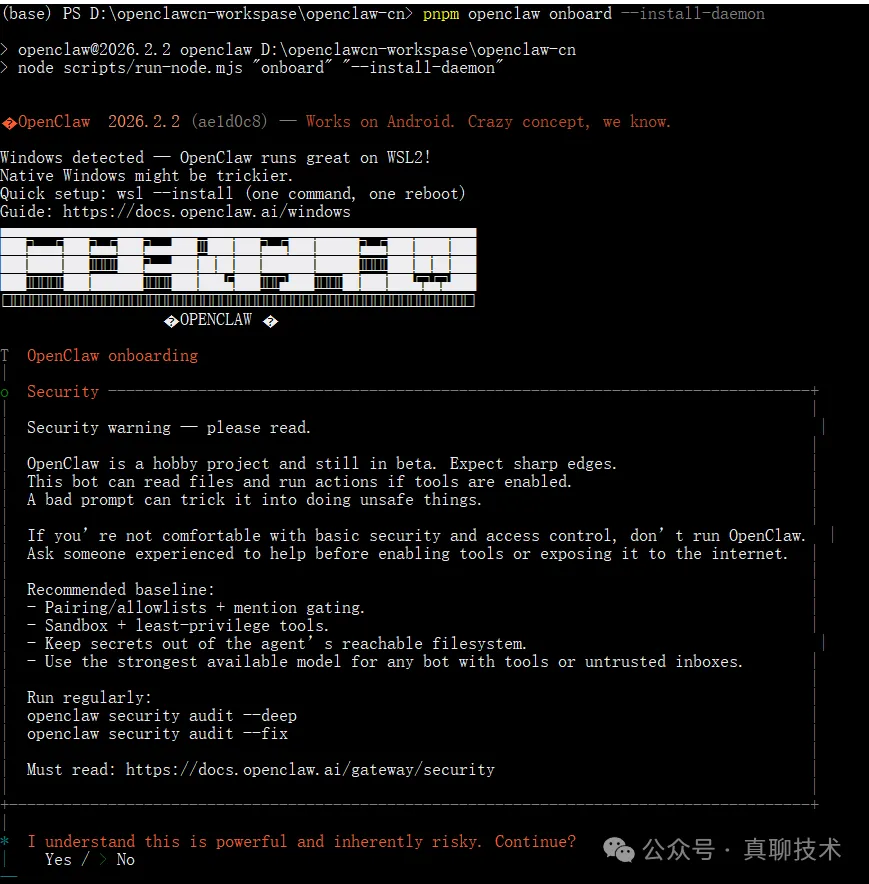
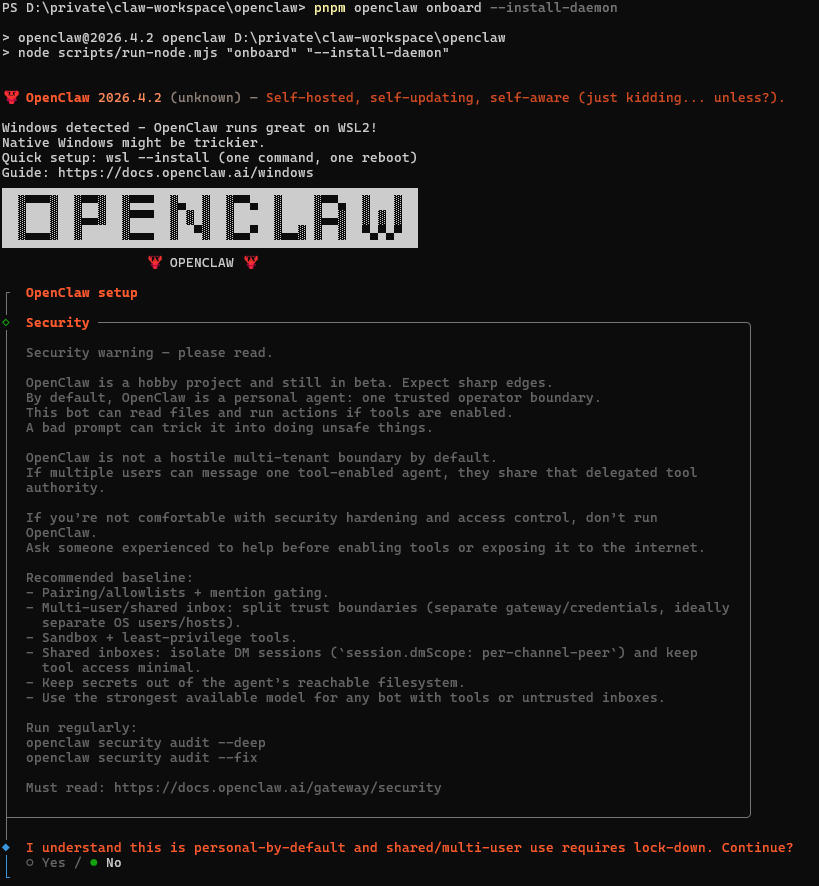
update更新

Changed region(s): [[0.0, 0.0, 1.0, 1.0], [0.8242, 0.6719, 0.8852, 0.7025]]

diff --git a/docs/practical/windows-native.md b/docs/practical/windows-native.md
@@ -112,25 +112,45 @@ pnpm openclaw onboard --install-daemon
 pnpm openclaw onboard --install-daemon
 ```
 
-![图片7](/practical/windows-native/7.jpg)
+![图片7](/practical/windows-native/7.png)
 
 再次看到这个页面，执行 **yes**。选择**快速开始**。
 
-![图片8](/practical/windows-native/8.jpg)
+![图片8](/practical/windows-native/8.png)
 
 轻松通过，果然还是图形的兼容问题，这里我们选择 **DeepSeek**。选择 **API key**，然后输入正确的 key 值。选择当前模型。
 
-![图片9](/practical/windows-native/9.jpg)
+![图片9](/practical/windows-native/9.png)
 
-通道这里选择**暂时跳过**，等 Gateway 启动后再配置。选择 **yes**，然后选择 **pnpm**。真实的 skill 安装时，可以暂时跳过，后续再配置（使用空格键选择）。
+通道这里选择**暂时跳过**，等 Gateway 启动后再配置。
 
-![图片10](/practical/windows-native/10.jpg)
+![图片10](/practical/windows-native/10.png)
 
-然后一路都选择 no，最后看到网关启动，然后选择 **Open the Web UI**，你就会看到以下页面：
+Web Search选择跳过
 
-![图片11](/practical/windows-native/11.jpg)
+![图片11](/practical/windows-native/11.png)
 
-这说明安装成功了！
+Skill安装选择 **yes**，看到skill列表后，如果有能安装就装，如果都没有准备好就跳过。
+
+![图片12](/practical/windows-native/12.png)
+
+剩下的配置，都选择 no.
+
+![图片12-1](/practical/windows-native/12-1.png)
+
+Hooks 选择四个都装（使用空格键选择）
+
+![图片13](/practical/windows-native/13.png)
+
+直到弹出一个新窗口，说明网关启动！
+
+然后执行以下命令：
+
+```bash
+pnpm openclaw onboard --install-daemon
+```
+
+会自动弹出登录页，这说明安装成功了！
 
 ## 常见问题
 
@@ -170,7 +190,7 @@ netstat -ano | findstr 18789
 
 OpenClaw 需要连接一个 AI 大模型才能「思考」。我们刚才已经配置了 DeepSeek，所以你可以在页面和它对话。
 
-![图片12](/practical/windows-native/12.jpg)
+![图片14](/practical/windows-native/14.png)
 
 ## 配置飞书机器人通道
 
